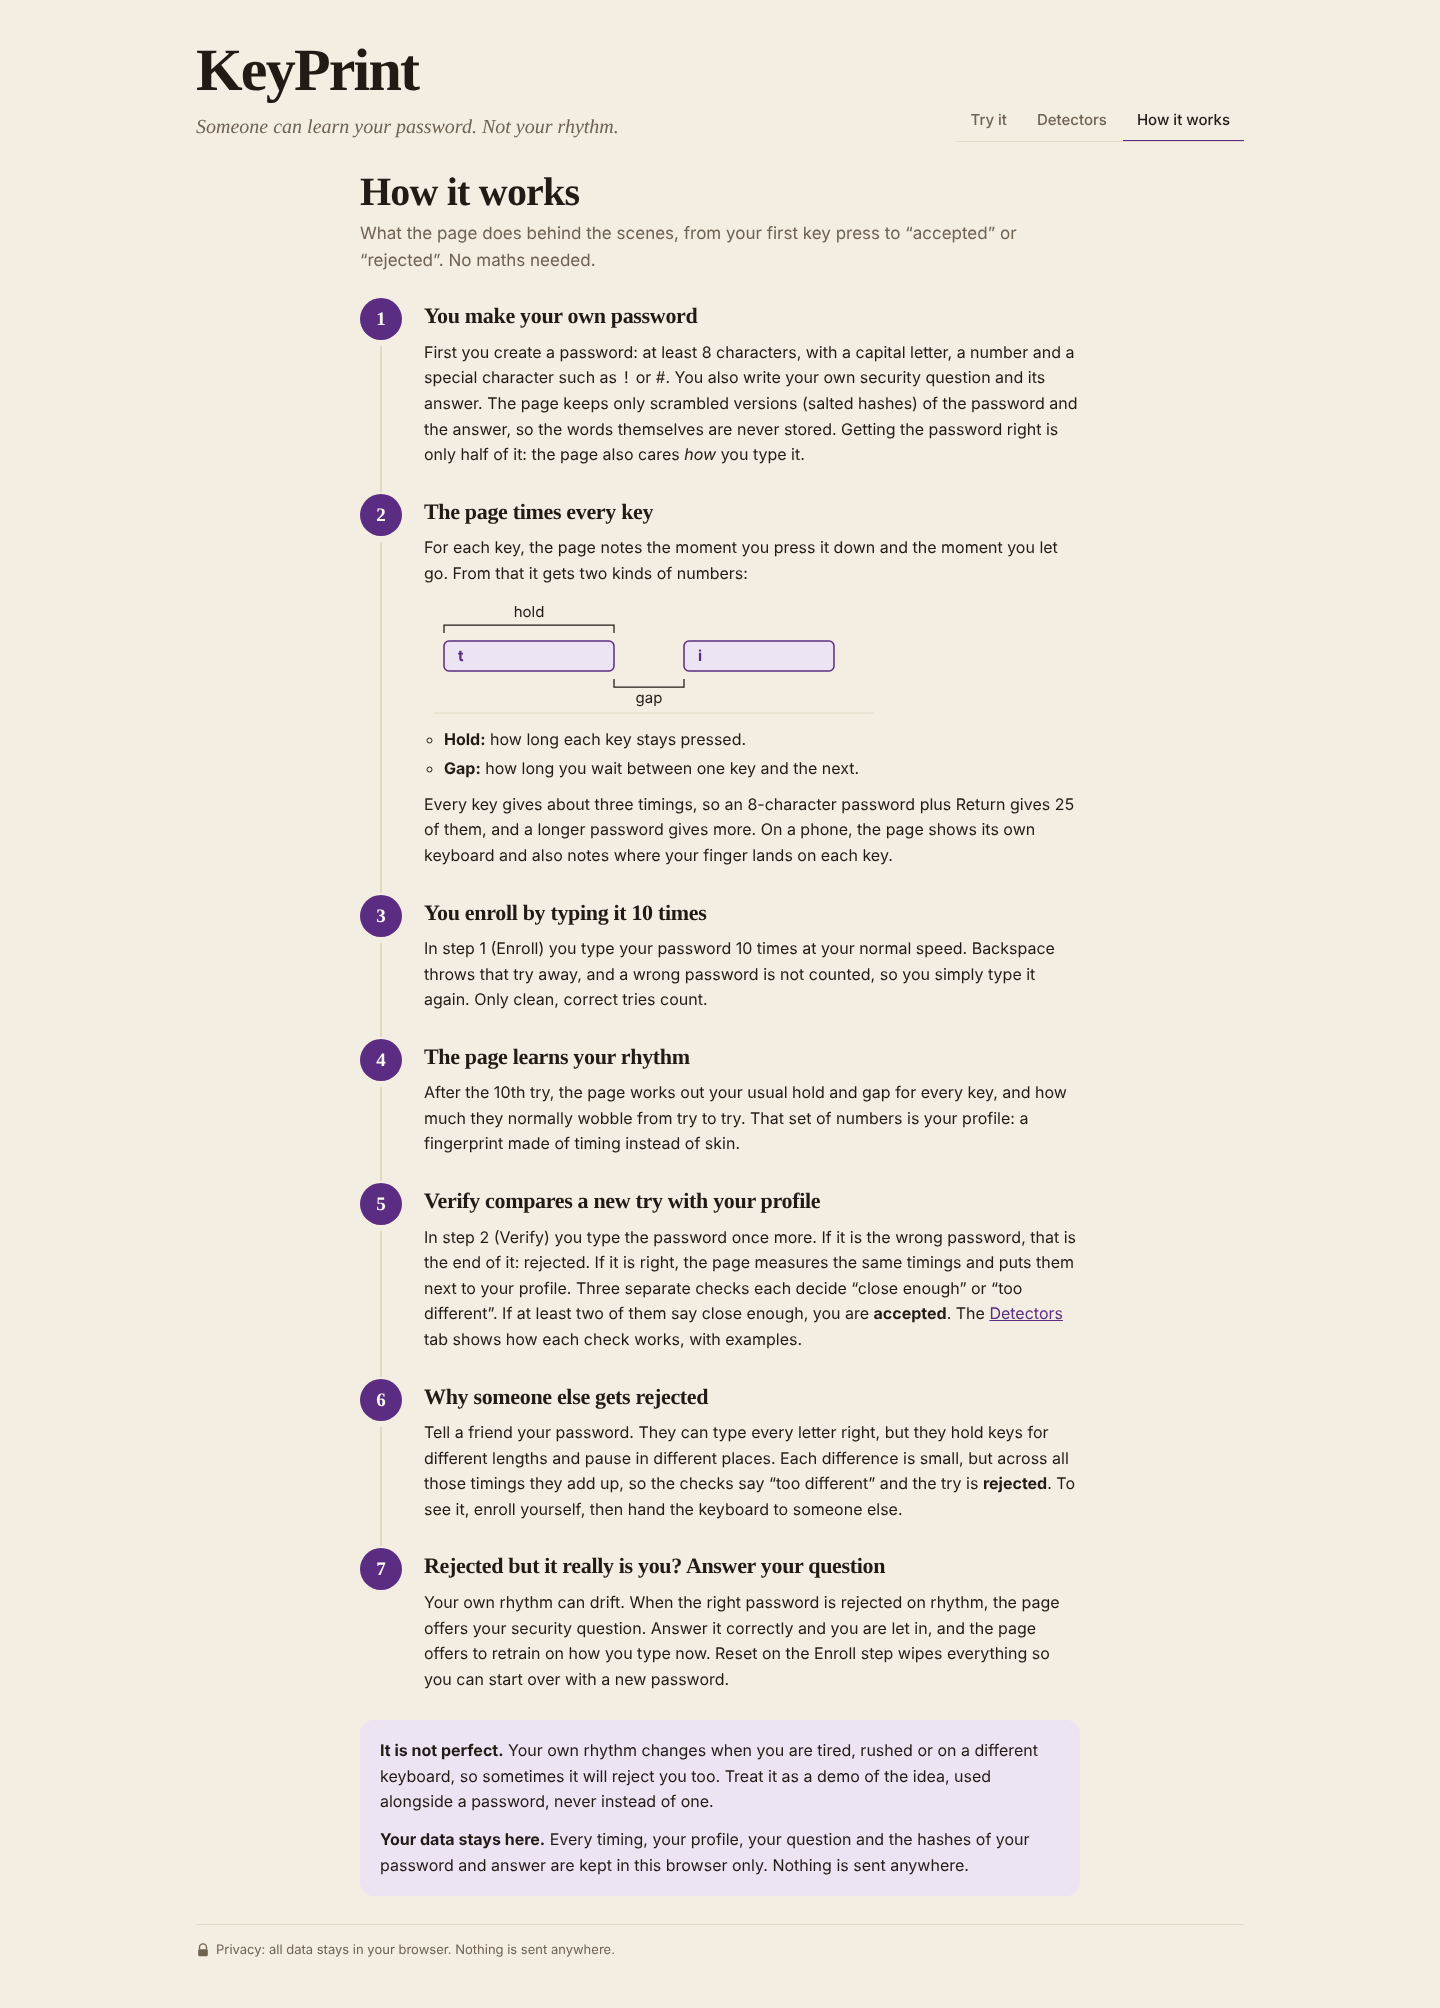
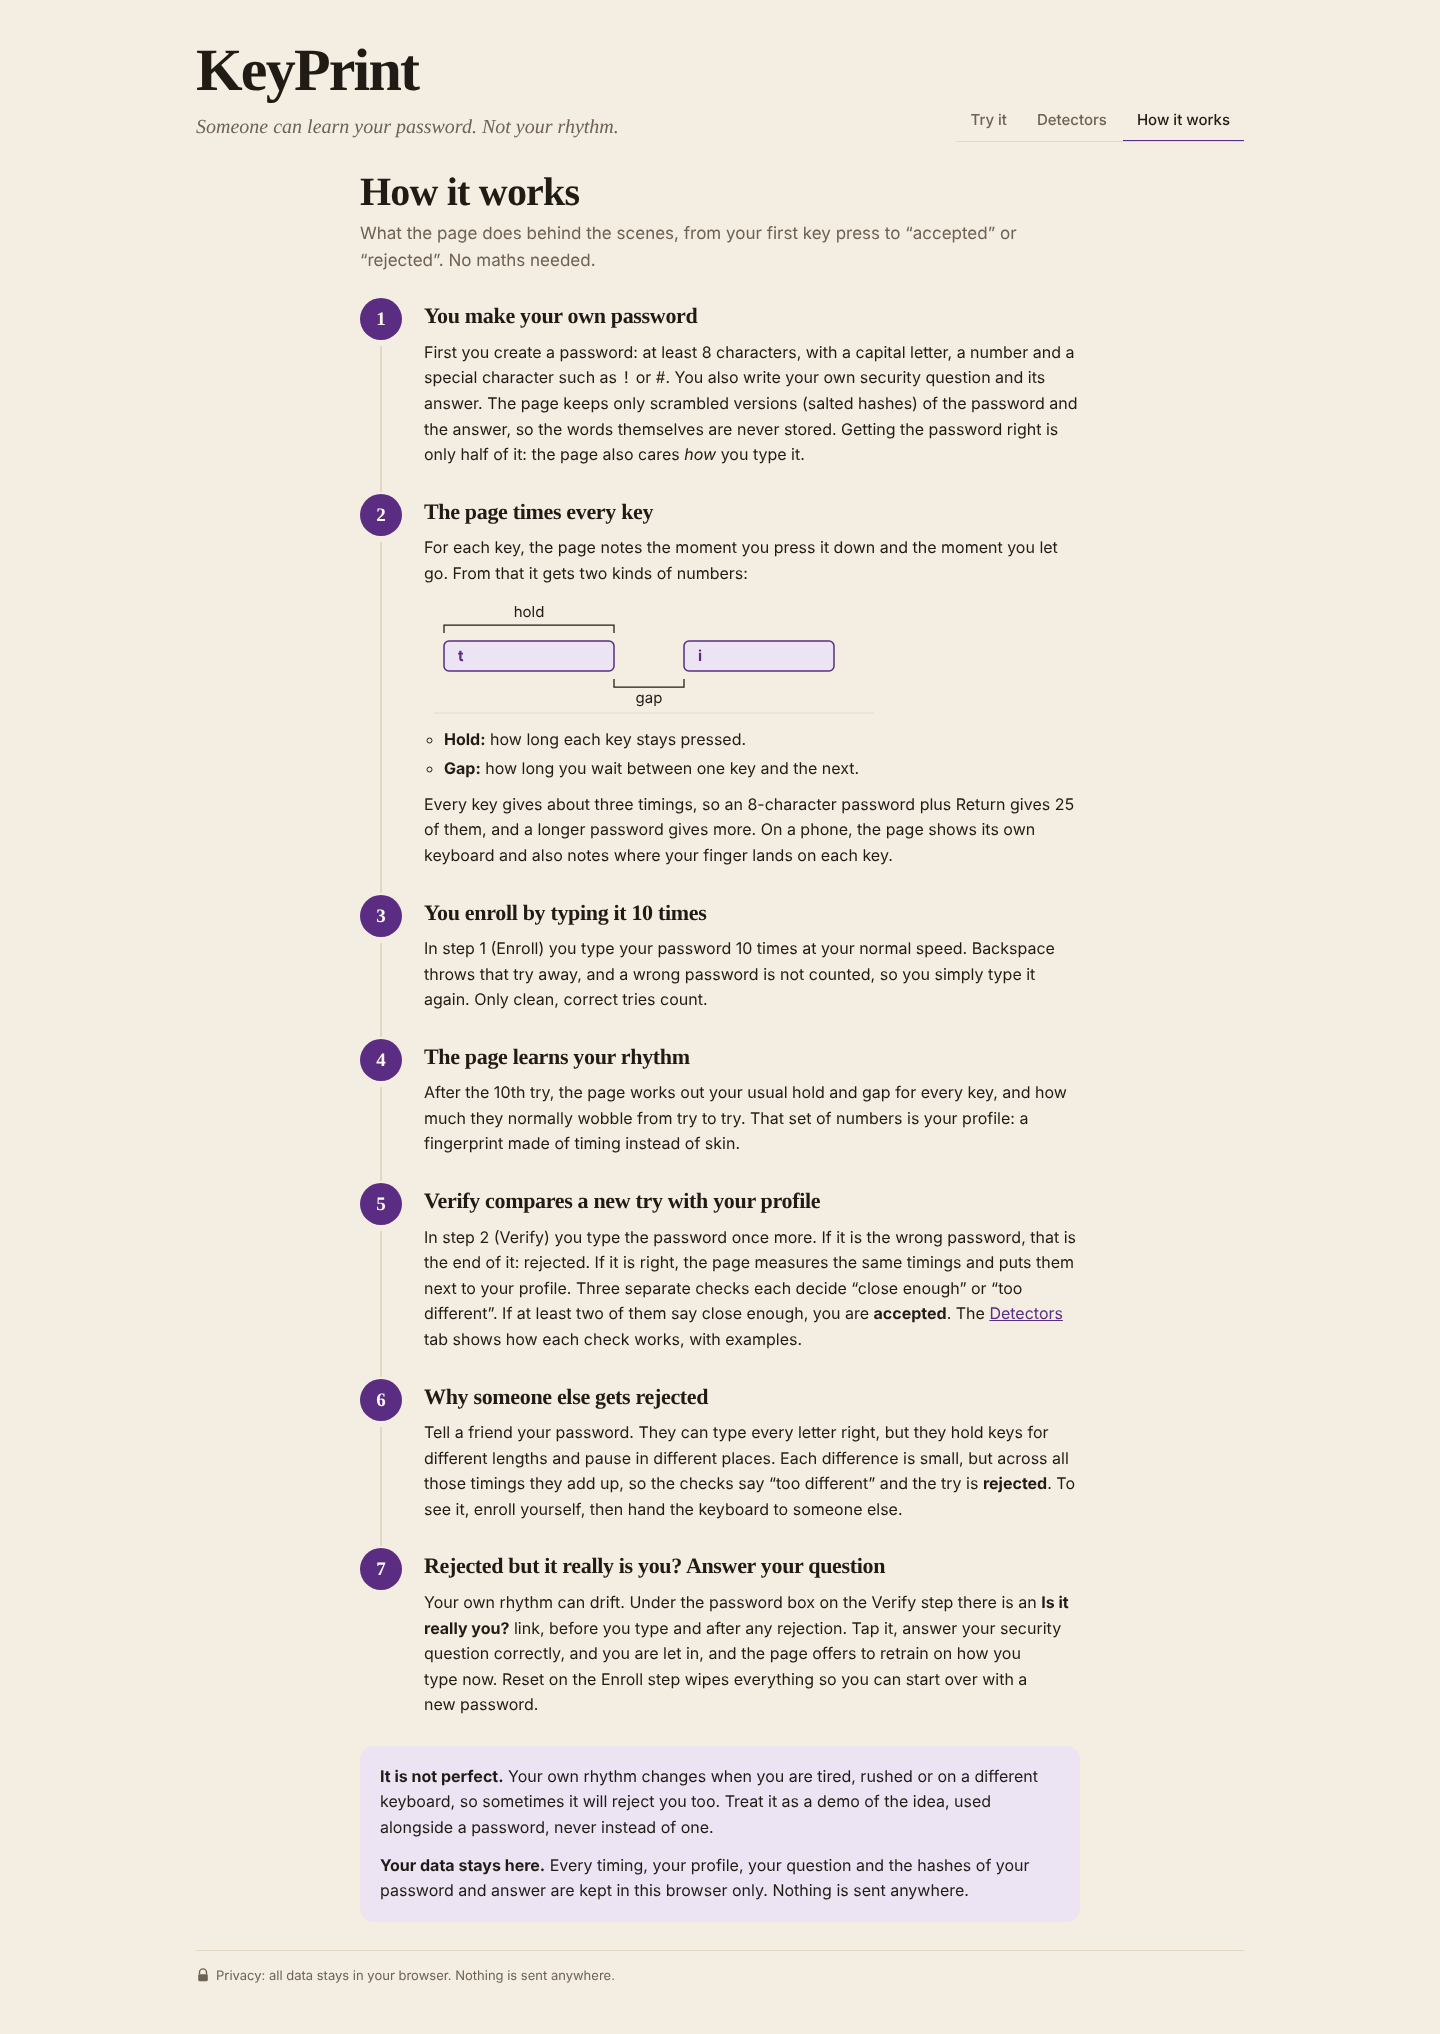
Add an "Is it really you?" backup option on Verify
The security question is now offered on the Verify step before any try and
after any rejection (wrong password or rhythm), not only after a rhythm
reject. It hides once a try is accepted. How it works, README and e2e tests
updated.

Claude-Session: https://claude.ai/code/session_01B27shn1UA1Th7jNnUgoiUQ

Changed region(s): [[0.25, 0.0618, 0.75, 0.9263], [0.5625, 0.0926, 0.6875, 0.1235], [0.1562, 0.0309, 0.2188, 0.0618]]

diff --git a/test_e2e.js b/test_e2e.js
@@ -2,7 +2,7 @@
 // Phone (375×667, touch, DPR 2): create a password, real touch input via CDP on the full on-screen keyboard (Shift, 123),
 // keypad attempt -> 31 + 22 features, multi-touch, Backspace, enroll + verify, canvas DPR + resize, touch targets, no overflow.
 // Desktop (1440×900): password rules and inline errors, keyboard attempt -> 31 features, wrong password not counted,
-// rhythm reject -> security question -> retrain, Reset on the Enroll step only, no shared passphrase anywhere, How it works, Detectors tab.
+// "Is it really you?" always on Verify -> security question -> retrain, Reset on the Enroll step only, no shared passphrase anywhere, How it works, Detectors tab.
 // Writes docs/screenshots/*.png.
 'use strict';
 const path = require('path');
@@ -170,6 +170,7 @@ async function typeKeys(page, keys) {
   check('10 keypad samples -> trained phone profile', await page.evaluate(() => KeyPrint.trained() && KeyPrint.samples() === 10));
   await tapAttempt(page, t, '#keypad', { id0: 50000, off: () => [0, 0.1] }); await waitIdle(page);
   check('verify attempt gives a verdict', /Accepted|Rejected/.test(await page.textContent('#status')));
+  check('"Is it really you?" shown after a reject, hidden after an accept', (await page.isVisible('#recover-open')) === /Rejected/.test(await page.textContent('#status')));
   await page.screenshot({ path: path.join(SHOTS, 'mobile-375.png') });
   await page.screenshot({ path: path.join(SHOTS, 'mobile-375-full.png'), fullPage: true });
   const prof = await page.evaluate(() => JSON.parse(localStorage.getItem('keyprint.profile.mobile.v2')));
@@ -238,16 +239,20 @@ async function typeKeys(page, keys) {
   await page.reload(); await sleep(150);
   check('desktop profile trained (synthetic example)', await page.evaluate(() => KeyPrint.trained() && KeyPrint.device() === 'desktop'));
   check('Verify step open once trained', await page.evaluate(() => !document.getElementById('step-verify').disabled));
-  check('Verify hides Reset', (await tryParts()) === 'capture,status' && !(await page.isVisible('#reset')), await tryParts());
+  check('Verify hides Reset, shows "Is it really you?"', (await tryParts()) === 'capture,status,recover-row' && !(await page.isVisible('#reset')), await tryParts());
+  check('"Is it really you?" is on Verify before any try', (await page.textContent('#recover-open')) === 'Is it really you?' && await page.isVisible('#recover-open'));
+  await page.click('#step-enroll'); await sleep(60);
+  check('"Is it really you?" is not on Enroll', !(await page.isVisible('#recover-open')));
+  await page.click('#step-verify'); await sleep(60);
   await page.screenshot({ path: path.join(SHOTS, 'desktop-1440.png') });
 
-  // wrong password on Verify: rejected, no security question
+  // wrong password on Verify: rejected, "Is it really you?" stays
   await page.click('#pass'); await typeKeys(page, 'Tr0ub4dor?'.split('').concat('Enter'));
-  check('Verify, wrong password: rejected without the security question', /Rejected: that is not the password/.test(await page.textContent('#status')) && !(await page.isVisible('#recover-open')));
-  // right password, but this robot is not the synthetic typist: rejected on rhythm -> security question
+  check('Verify, wrong password: rejected, "Is it really you?" still offered', /Rejected: that is not the password/.test(await page.textContent('#status')) && await page.isVisible('#recover-open'));
+  // right password, but this robot is not the synthetic typist: rejected on rhythm -> "Is it really you?" -> security question
   await typeKeys(page, PASS);
   check('Verify, right password, other rhythm: rejected on rhythm', /Rejected: right password/.test(await page.textContent('#status')), await page.textContent('#status'));
-  check('offers the security question', await page.isVisible('#recover-open'));
+  check('"Is it really you?" still offered after a rhythm reject', await page.isVisible('#recover-open'));
   await page.click('#recover-open');
   check('shows your own question', (await page.textContent('#recover-q')) === Q && await page.evaluate(() => document.activeElement.id === 'recover-a'));
   await page.fill('#recover-a', 'red comet'); await page.click('#recover-check');
@@ -255,7 +260,7 @@ async function typeKeys(page, keys) {
   check('wrong answer refused', /not right/.test(await page.textContent('#recover-msg')) && !(await page.isVisible('#retrain')));
   await page.fill('#recover-a', '  blue   COMET '); await page.click('#recover-check');
   await page.waitForSelector('#retrain', { state: 'visible' });
-  check('right answer (any case, extra spaces) lets you in and offers retraining', /Correct answer: you are in/.test(await page.textContent('#status')) && !(await page.isVisible('#recover')));
+  check('right answer (any case, extra spaces) lets you in and offers retraining', /Correct answer: you are in/.test(await page.textContent('#status')) && !(await page.isVisible('#recover')) && !(await page.isVisible('#recover-open')));
   await page.screenshot({ path: path.join(SHOTS, 'desktop-1440-recover.png') });
   await page.click('#retrain');
   check('Retrain clears the rhythm but keeps the password', await page.evaluate(() => KeyPrint.samples() === 0 && !KeyPrint.trained() && KeyPrint.hasAccount() &&
@@ -281,6 +286,7 @@ async function typeKeys(page, keys) {
   // How it works: plain walkthrough only, no Reset
   await page.click('#tab-how'); await sleep(120);
   check('How it works is a 7-step walkthrough', (await page.$$('#view-how .walk > li')).length === 7);
+  check('How it works explains "Is it really you?"', /Is it really you\?/.test(await page.textContent('#view-how .walk')));
   check('old session panels are gone', await page.evaluate(() => ['timeline', 'rhythm', 'overall', 'verdicts', 'devs', 'tally', 'force-keypad', 'thr-table', 'test-out', 'export'].every((id) => !document.getElementById(id))));
   await page.screenshot({ path: path.join(SHOTS, 'desktop-1440-how.png'), fullPage: true });
   await page.click('#view-how a[data-goto="detectors"]'); await sleep(120);

diff --git a/index.html b/index.html
@@ -188,6 +188,8 @@ h2{font-size:12px;letter-spacing:.14em}
 .try .status.ok{color:var(--ok)} .try .status.bad{color:var(--bad)}
 /* Try it: reset (Enroll only) and the security-question backup sit under the message */
 .stage-foot{display:flex;justify-content:center}
+.btn.quiet{border-color:transparent;background:none;color:var(--accent);text-decoration:underline;text-underline-offset:3px;min-height:36px}
+.btn.quiet:hover{border-color:transparent;text-decoration-thickness:2px}
 .capture{display:grid;gap:20px}
 /* set up: own password + security question */
 .setup{display:grid;gap:18px}
@@ -327,7 +329,7 @@ h2{font-size:12px;letter-spacing:.14em}
       <div class="keypad" id="keypad" role="group" aria-label="On-screen keyboard" hidden></div>
     </div>
     <div class="status" id="status" aria-live="polite">First, create your own password and a security question.</div>
-    <div class="stage-foot" id="recover-row" hidden><button class="btn" id="recover-open" type="button">It is me: answer my security question</button></div>
+    <div class="stage-foot" id="recover-row" hidden><button class="btn quiet" id="recover-open" type="button" aria-label="Is it really you? Answer your security question">Is it really you?</button></div>
     <form class="recover" id="recover" hidden>
       <p class="recover-q" id="recover-q"></p>
       <label for="recover-a" class="sr-only">Your answer</label>
@@ -490,7 +492,7 @@ h2{font-size:12px;letter-spacing:.14em}
       </li>
       <li>
         <h3>Rejected but it really is you? Answer your question</h3>
-        <p>Your own rhythm can drift. When the right password is rejected on rhythm, the page offers your security question. Answer it correctly and you are let in, and the page offers to retrain on how you type now. Reset on the Enroll step wipes everything so you can start over with a new password.</p>
+        <p>Your own rhythm can drift. Under the password box on the Verify step there is an <strong>Is it really you?</strong> link, before you type and after any rejection. Tap it, answer your security question correctly, and you are let in, and the page offers to retrain on how you type now. Reset on the Enroll step wipes everything so you can start over with a new password.</p>
       </li>
     </ol>
 
@@ -1175,7 +1177,7 @@ if (typeof module !== 'undefined') module.exports = KPT;
   var tryCap = Capturer({
     input: $('pass'), keypad: $('keypad'), status: setStatus,
     blocked: function () { return checking ? 'One moment, checking the last try…' : null; },
-    onStart: function () { setStatus('Recording…'); showRecover(false); },
+    onStart: function () { setStatus('Recording…'); paintRecover(); },
     onComplete: function (r, device) { finishAttempt(r, device); }
   });
 
@@ -1211,20 +1213,20 @@ if (typeof module !== 'undefined') module.exports = KPT;
   }
   function train() { state.trained = state.samples.length >= 3 ? KP.trainAll(state.samples) : null; }
 
-  // ---------- verify: 2 of 3 detectors must accept; a rhythm reject offers the security question ----------
+  // ---------- verify: 2 of 3 detectors must accept; "Is it really you?" (the security question) is offered until a try is accepted ----------
   function onVerify(x) {
     if (!state.trained) { setStatus('Train a profile first.', 'bad'); return; }
     var accepts = KP.DETECTORS.filter(function (d) {
       return d.score(state.trained[d.id].model, x) <= KP.thresholdAt(state.trained[d.id].loo, state.frr);
     }).length, ok = accepts >= 2;
     setStatus(ok ? 'Accepted: ' + accepts + ' of 3 detectors say it is you.' : 'Rejected: right password, but only ' + accepts + ' of 3 detectors say it is you.', ok ? 'ok' : 'bad');
-    showRecover(!ok);
+    if (ok) $('recover-row').hidden = true;
   }
 
-  // ---------- security question (backup after a rhythm reject) ----------
-  function showRecover(on) {
-    $('recover-row').hidden = !on;
-    if (!on) { $('recover').hidden = true; $('retrain-row').hidden = true; }
+  // ---------- security question: the "Is it really you?" backup on the Verify step ----------
+  function paintRecover() {
+    $('recover-row').hidden = !(account && state.trained && state.step === 'verify');
+    $('recover').hidden = true; $('retrain-row').hidden = true;
   }
   $('recover-open').addEventListener('click', function () {
     $('recover-row').hidden = true; $('recover').hidden = false;
@@ -1245,7 +1247,7 @@ if (typeof module !== 'undefined') module.exports = KPT;
     }, function () { $('recover-check').disabled = false; $('recover-msg').textContent = 'This browser could not check the answer.'; });
   });
   $('retrain').addEventListener('click', function () {
-    showRecover(false); clearSamples();
+    clearSamples();
     setStatus('Retraining. Step 1: type your password 10 times.', 'ok'); tryCap.focus();
   });
 
@@ -1271,7 +1273,7 @@ if (typeof module !== 'undefined') module.exports = KPT;
     try { localStorage.removeItem(ACCOUNT); localStorage.removeItem(STORE.desktop); localStorage.removeItem(STORE.mobile); } catch (e) { }
     account = null;
     state.samples = []; state.trained = null; state.frr = 0.05; state.lastX = null;
-    showRecover(false); setStep('enroll'); render();
+    setStep('enroll'); render();
     setStatus('Reset done. Create a new password to start again.', 'ok');
   }
   function resetButton(b, after) {
@@ -1352,11 +1354,10 @@ if (typeof module !== 'undefined') module.exports = KPT;
     });
     $('cap-h').textContent = setup ? 'Create your password' : HEADINGS[state.step];
     $('reset-row').hidden = setup || state.step !== 'enroll';
-    if (setup) showRecover(false);
+    paintRecover();
   }
   function setStep(s, focus) {
     if (s !== 'enroll' && !state.trained) s = 'enroll';
-    if (s !== state.step) showRecover(false);
     state.step = s; tryCap.reset();
     paintSteps();
     if (focus) tryCap.focus();

diff --git a/README.md b/README.md
@@ -27,7 +27,7 @@ Passwords check what you typed. KeyPrint checks how long you held each key, how 
 - **Create your password:** the first thing you do. It needs at least 8 characters, a capital letter, a number and a special character, and the rules tick off as you type. You also write your own security question and answer. Only salted hashes (PBKDF2-SHA-256) of the password and the answer are stored, in this browser.
 - **Enroll:** type your password ten times so KeyPrint learns your rhythm. A wrong password is not counted.
 - **Verify:** type it once more and three detectors vote on whether it is really you. Hand the keyboard to a friend and watch it turn them down.
-- **Security question:** if the right password is rejected on rhythm, you can answer your question to get in, and then retrain on how you type now.
+- **Is it really you?:** the Verify step shows an "Is it really you?" link until a try is accepted. It opens your security question as a backup: answer it to get in, and then retrain on how you type now.
 - **Phone mode:** on a phone, an on-screen keyboard (letters, Shift, numbers and symbols) records where your thumb lands, not just when.
 - **Reset:** a Reset button on the Enroll step of Try it wipes your password, question and profile so you can start again with a new password. It is hidden during Verify.
 - **Detectors:** the Detectors tab explains the three detectors in plain language, each with a small worked example (real numbers from the real code), and shows how the 2-of-3 vote decides the verdict.
